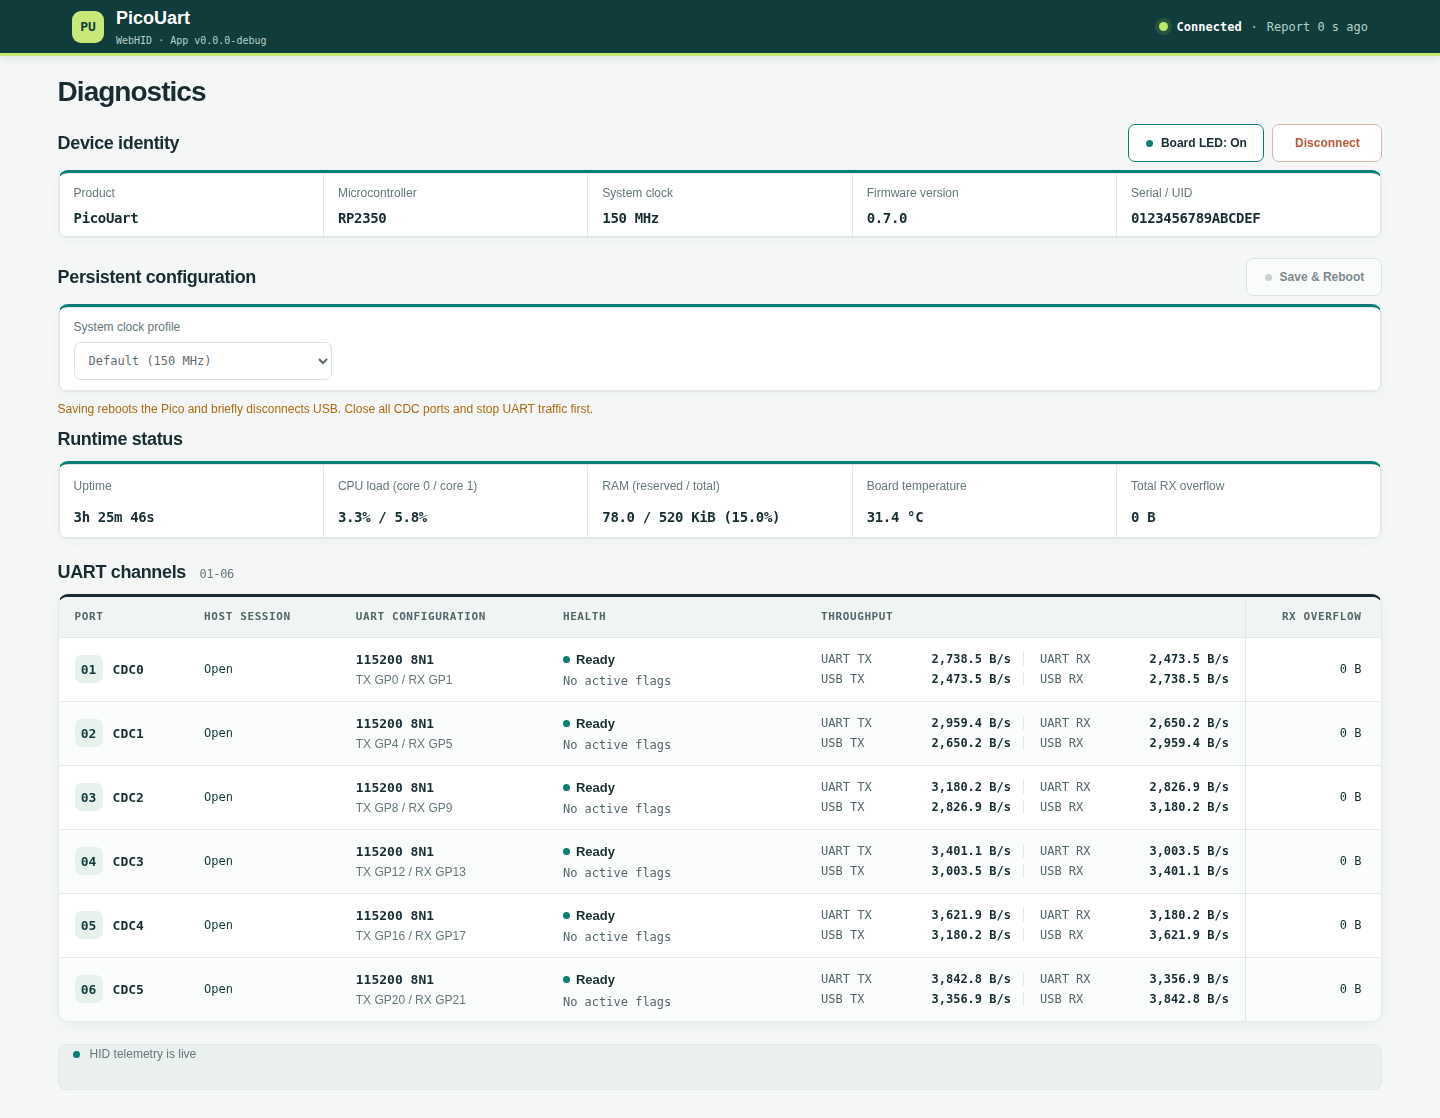
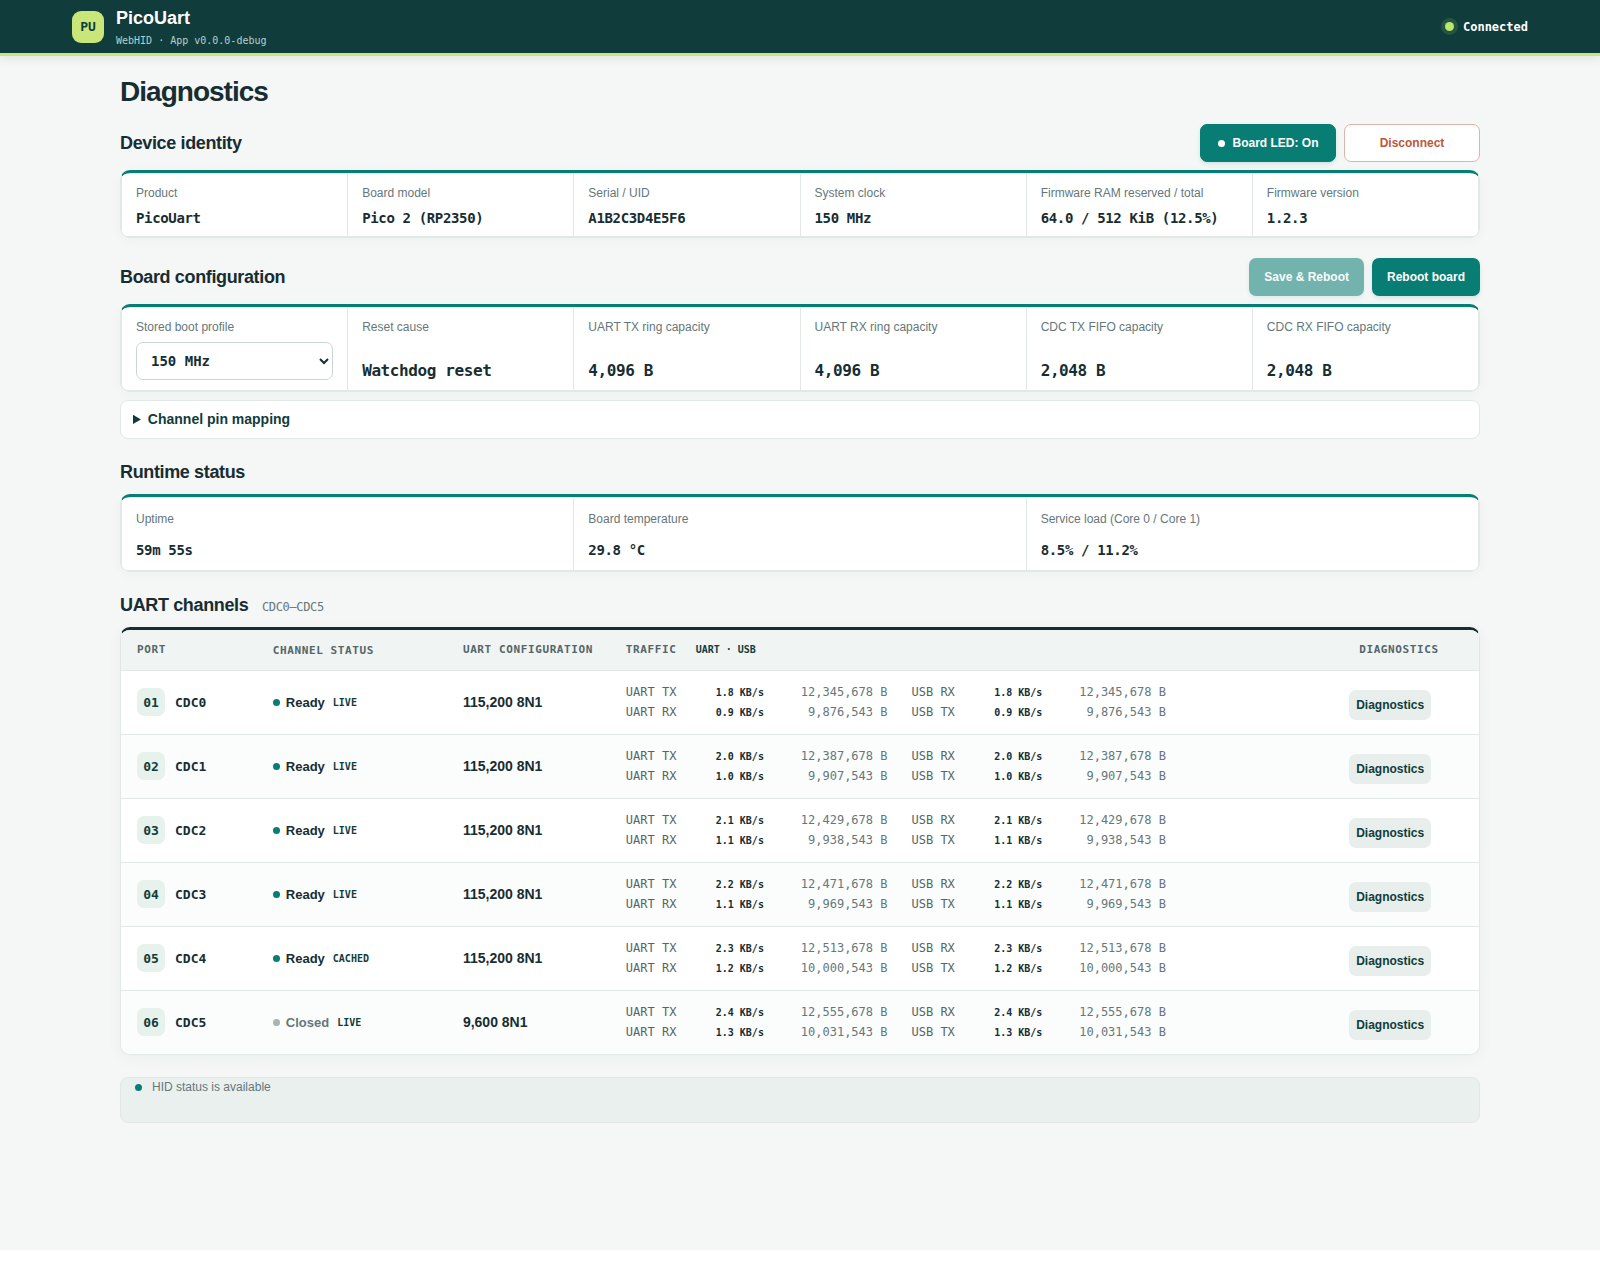
update to latest dashboard

diff --git a/README.md b/README.md
@@ -57,7 +57,7 @@ Reference boards, not PicoUart-specific assemblies. Pico photo by Misael Resénd
 | **Test-automation friendly** | Save `pico-uart status --json` snapshots and `pico-uart monitor` logs next to each test run's results. |
 | **Dashboards when you need them** | Watch all six UARTs live in the browser, local Python, or .NET app during bring-up and debugging. |
 
-![Current WebHID dashboard showing device identity, runtime status, and six UART channels.](docs/assets/pico-uart-dashboard.png)
+![WebHID dashboard with simulated device identity, board configuration, runtime status, and six-channel UART/USB traffic.](docs/assets/pico-uart-dashboard.png)
 
 _Current WebHID layout with simulated telemetry; illustrative, not a live hardware result._
 
